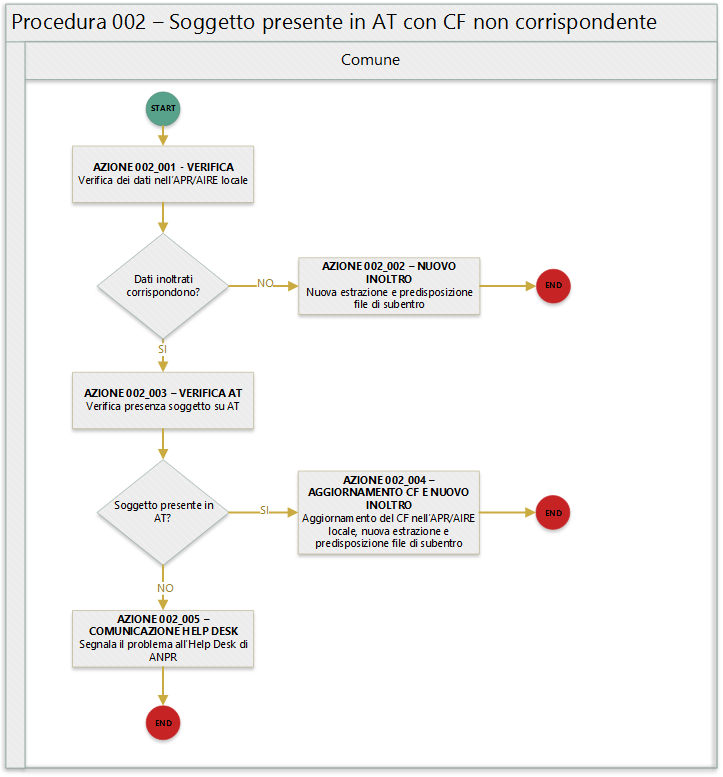
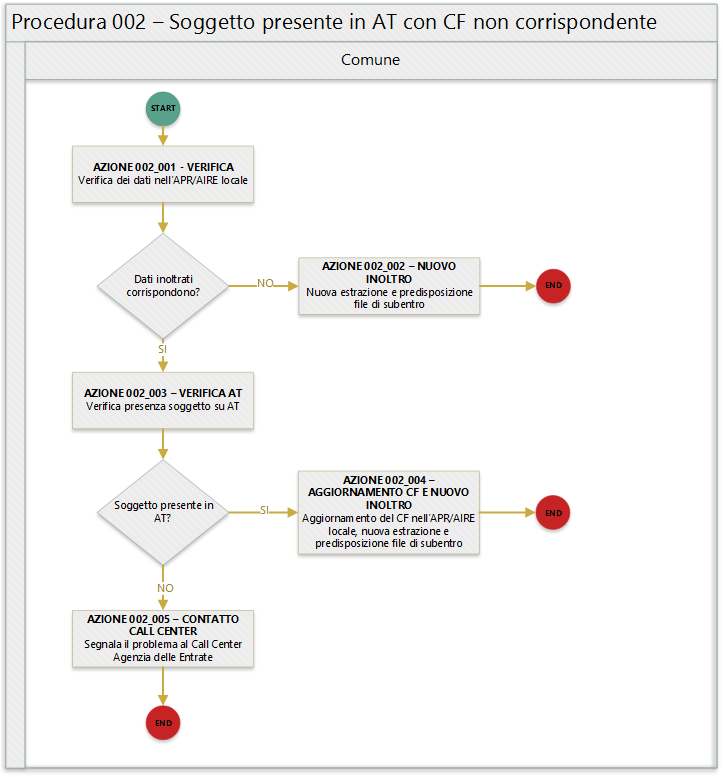
Aggiornati contenuti su nota GINA

Changed region(s): [[0.0913, 0.7722, 0.3347, 0.8649]]

diff --git a/procedure/PROCEDURA_001.md b/procedure/PROCEDURA_001.md
@@ -1,13 +1,19 @@
 	QUESTO DOCUMENTO É UNA BOZZA DI LAVORO
 
-# Procedura 001 - CF lunghezza errata o formalmente errato
+# Procedura 001 - Errore nel CF
 
 > ritorna [*README*](../README.md) o [*Tabella anomalie ANPR*](../TAB01_ANOMALIE_ANPR.md)
 
 In quanto segue si riporta la procedura suggerita ai Comuni per la gestione delle anomalie: 
 
-- EA001 - *codice fiscale* lunghezza errata; 
+- EA001 - *codice fiscale* lunghezza errata;
+- EA029 - *codice fiscale* calcolato dai *dati angrafici* del comune non presente in Anagrafe Tributaria; 
+- EA038 - soggetto con data di nascita non coincidente con quella presente nel *codice fiscale*;
+- EA042 - soggetto con sesso non coincidente con quella presente nel *codice fiscale*;
 - EA048 - *codice fiscale* formalmente errato.
+
+
+
 
 ## Precondizione
 Per dare seguito alla presente procedura è necessario che l'ufficiale d'anagrafe disponga:
@@ -24,25 +30,25 @@ La seguente figura sintetizza la procedura per la gestione delle anomalie.
 In quanto segue si riporta una descrizione delle azioni previsti per la presente procedura.
 
 ### AZIONE 001_001 - VERIFICA
-L'ufficiale d'anagrafe verifica i dati anagrafici associati al soggetto interessato dall'errore sul sistema gestionale del Comune (APR o AIRE locale) con l'obiettivo di constatare che i dati inoltrati al sistema ANPR coincidono con quelli registrati.
+L'ufficiale d'anagrafe verifica i dati anagrafici associati al soggetto interessato dall'errore sul sistema gestionale del Comune (APR o AIRE locale) con l'obiettivo di constatare che i dati inoltrati al sistema ANPR coincidono con quelli registrati. **Si evidenzia che l'ufficiale di anagrafe provvede anche al riscontro che i dati registrati nell'APR o AIRE locali corrispondano con i dati registrati allo stato civile**
 
 ### AZIONE 001_002 - NUOVO INOLTRO
 Poichè i dati inoltrati al sistema ANPR non coincidono con quelli presenti nel sistema gestionale del Comune (probabilemente per problemi nella procedura di estrazione e predisposizione dei file di subentro utilizzata) è necessario provvedere nuovamente all'estrazione dei dati e alla predisposizione dei file di subentro al fine di provvedere ad eseguire l'inoltro al sistema ANPR.
 
 ### AZIONE 001_003 - VERIFICA AT
-L'ufficiale di anagrafe, tramite il sistema *SIATEL v2.0 - PuntoFisco* reso disponibile dall'Agenzia delle entrate, ricerca il soggetto nell'Anagrafe Tributaria e verifica il CF ad esso assegnato.
+L'ufficiale di anagrafe, tramite il sistema *SIATEL v2.0 - PuntoFisco* reso disponibile dall'Agenzia delle entrate, ricerca il soggetto nell'Anagrafe Tributaria e verifica il CF ad esso assegnato. Nel dettaglio attraverso le informazioni anagrafiche in suo possesso nome, cognome, sesso, luogo e data di nascita verifica se sull'Anagrafe Tributaria risulta soggetto ed in caso positivo prende nota del codice fiscale attribuito ad esso.
 
 ### AZIONE 001_004 - AGGIORNAMENTO CF E NUOVO INOLTRO
 L'ufficiale di anagrafe, a valle del positivo riscontro con l'Agenzia delle entrate, provvede ad aggiornare il *codice fiscale* sul sistema gestionale del Comune per dare seguito ad una nuova estrazione dei dati e alla predisposizione dei file di subentro al fine di provvedere ad eseguire nuovamente l'inoltro al sistema ANPR.
 
 ### AZIONE 001_005 - CONVOCAZIONE CITTADINO
-L'ufficiale di anagrafe convoca il cittadino per verificare se lo stesso è in possesso di un *codice fiscale* correttamente generato dall'Agenzia delle entrate.
+L'ufficiale di anagrafe convoca il cittadino per verificare se lo stesso è in grado di attestare il *codice fiscale* ad esso attribuito dall'Agenzia delle entrate, ad esempio verificando la tessera sanitaria in suo possesso.
 
 ### AZIONE 001_006 - AGGIORNAMENTO CF E NUOVO INOLTRO
 L'ufficiale di anagrafe, a valle del positivo riscontro con il cittadino, provvede ad aggiornare il *codice fiscale* sul sistema gestionale del Comune per dare seguito ad una nuova estrazione dei dati e alla predisposizione dei file di subentro al fine di provvedere ad eseguire nuovamente l'inoltro al sistema ANPR.
 
 ### AZIONE 001_007 - CANCELLAZIONE CF E NUOVO INOLTRO
-L'ufficiale di anagrafe, non avendo la possibilità di riscontrate il *codice fiscale* provvede alla cancellazione dei dati sul sistema gestionale del Comune per dare seguito ad una nuova estrazione dei dati e alla predisposizione dei file di subentro al fine di provvedere ad eseguire nuovamente l'inoltro al sistema ANPR
+L'ufficiale di anagrafe, non avendo la possibilità di riscontrate il *codice fiscale* provvede alla cancellazione dei dati sul sistema gestionale del Comune per dare seguito ad una nuova estrazione dei dati e alla predisposizione dei file di subentro al fine di provvedere ad eseguire nuovamente l'inoltro al sistema ANPR.
 
 ## Riferimenti di interesse
 Nello specifico della presente procedure risultano di interesse:

diff --git a/TAB01_ANOMALIE_ANPR.md b/TAB01_ANOMALIE_ANPR.md
@@ -7,18 +7,18 @@
 
 |codice anomalia | messaggio di errore | severità | procedura suggerita|
 | ------------- | ------------- | ------------- | ------------- |
-|	EA001	|	Codice fiscale di lunghezza errata | warning da rimuovere prima del subentro | [Procedura 001 - Codice Fiscale lunghezza errata o formalmente errato](procedure/PROCEDURA_001.md) |
+|	EA001	|	Codice fiscale di lunghezza errata | warning da rimuovere prima del subentro | [Procedura 001 - Errore nel CF](procedure/PROCEDURA_001.md) |
 |	EA002	|	Soggetto presente in AT con  DA uguali a quelli del comune ma CF del comune assente	| warning non bloccante | [Procedura 002 - Soggetto presente in AT con CF non corrispondente](procedure/PROCEDURA_002.md) |
 |	EA003	|	Soggetto presente in AT con  DA uguali a quelli del comune ma CF diverso	| warning non bloccante | [Procedura 002 - Soggetto presente in AT con CF non corrispondente](procedure/PROCEDURA_002.md) |
-|	EA029	|	Codice fiscale calcolato dai  DA del comune non presente in AT	| warning non bloccante | [Procedura 003 - CF calcolato dai dati anagrafici non presente in AT](procedure/PROCEDURA_003.md) |
+|	EA029	|	Codice fiscale calcolato dai  DA del comune non presente in AT	| warning non bloccante | [Procedura 001 - Errore nel CF](procedure/PROCEDURA_001.md) |
 |	EA030	|	CF di un soggetto residente  in piu' comuni	| warning non bloccante | [Procedura 005 - Duplicazione scheda anagrafica](procedure/PROCEDURA_005.md) |
 |	EA031	|	CF di un soggetto residente  sia in Italia che all'estero (AIRE)	| warning da rimuovere prima del subentro | [Procedura 005 - Duplicazione scheda anagrafica](procedure/PROCEDURA_005.md) |
 |	EA036	|	Soggetto registrato piu' volte sia con il CF base che con quello che risolve l'omocodia  	| warning non bloccante | [Procedura 005 - Duplicazione scheda anagrafica](procedure/PROCEDURA_005.md) |
-|	EA038	|	Soggetto con data di nascita non coincidente  con quella presente nel CF	| warning da rimuovere prima del subentro | [Procedura 004 - CF presente con errore nella data di nascita o sesso](procedure/PROCEDURA_004.md)  |
+|	EA038	|	Soggetto con data di nascita non coincidente  con quella presente nel CF	| warning da rimuovere prima del subentro | [[Procedura 001 - Errore nel CF](procedure/PROCEDURA_001.md) |
 |	EA040	|	Soggetto registrato piu' volte  sia con il CF collegato che con l'ultimo	| warning non bloccante | [Procedura 005 - Duplicazione scheda anagrafica](procedure/PROCEDURA_005.md) |
-|	EA042	|	Soggetto con sesso non coincidente  con quello presente nel CF	| warning da rimuovere prima del subentro | [Procedura 004 - CF presente con errore nella data di nascita o sesso](procedure/PROCEDURA_004.md) |
+|	EA042	|	Soggetto con sesso non coincidente  con quello presente nel CF	| warning da rimuovere prima del subentro | [Procedura 001 - Errore nel CF](procedure/PROCEDURA_001.md) |
 |	EA047	|	Soggetto presente  nell'archivio AIRE e nel MAE dei cittadini non residenti (IRREPERIBILI, RIMPATRIATI, DECEDUTI,  TRASFERITI)	| warning non bloccante | NON APPLICATA: in attesa di collegamento con MAE |
-|	EA048	|	Codice fiscale formalmente errato	| warning da rimuovere prima del subentro | [Procedura 001 - Codice Fiscale lunghezza errata o formalmente errato](procedure/PROCEDURA_001.md) |
+|	EA048	|	Codice fiscale formalmente errato	| warning da rimuovere prima del subentro | [Procedura 001 - Errore nel CF](procedure/PROCEDURA_001.md) |
 |	EC001	|	Codice stato civile [@] inesistente sulla tabella di riferimento [Codice-Tabella]	| warning da rimuovere prima del subentro | [Procedura 006 - Codice inesistente su tabella di riferimento](procedure/PROCEDURA_006.md) |
 |	EC002	|	Codice relazione di parentela [@] inesistente sulla tabella di riferimento [Codice-Tabella]	| warning da rimuovere prima del subentro | [Procedura 006 - Codice inesistente su tabella di riferimento](procedure/PROCEDURA_006.md) |
 |	EC003	|	Codice legame scheda convivenza [@] inesistente sulla tabella di riferimento [Codice-Tabella]	| warning da rimuovere prima del subentro | [Procedura 006 - Codice inesistente su tabella di riferimento](procedure/PROCEDURA_006.md) |

diff --git a/procedure/PROCEDURA_002.md b/procedure/PROCEDURA_002.md
@@ -24,19 +24,19 @@ La seguente figura sintetizza la procedura per la gestione delle anomalie.
 In quanto segue si riporta una descrizione delle azioni previsti per la presente procedura.
 
 ### AZIONE 002_001 - VERIFICA
-L'ufficiale d'anagrafe verifica i dati anagrafici associati al soggetto interessato dall'errore sul sistema gestionale del Comune (APR o AIRE locale) con l'obiettivo di constatare che i dati inoltrati al sistema ANPR coincidono con quelli registrati.
+L'ufficiale d'anagrafe verifica i dati anagrafici associati al soggetto interessato dall'errore sul sistema gestionale del Comune (APR o AIRE locale) con l'obiettivo di constatare che i dati inoltrati al sistema ANPR coincidono con quelli registrati. **Si evidenzia che l'ufficiale di anagrafe provvede anche al riscontro che i dati registrati nell'APR o AIRE locali corrispondano con i dati registrati allo stato civile**
 
 ### AZIONE 002_002 - NUOVO INOLTRO
 Poichè i dati inoltrati al sistema ANPR non coincidono con quelli presenti nel sistema gestionale del Comune (probabilemente per problemi nella procedura di estrazione e predisposizione dei file di subentro utilizzata) è necessario provvedere nuovamente all'estrazione dei dati e alla predisposizione dei file di subentro al fine di provvedere ad eseguire l'inoltro al sistema ANPR.
 
 ### AZIONE 002_003 - VERIFICA AT
-L'ufficiale di anagrafe, tramite il sistema *SIATEL v2.0 - PuntoFisco* reso disponibile dall'Agenzia delle entrate, ricerca il soggetto nell'Anagrafe Tributaria e verifica il CF ad esso assegnato.
+L'ufficiale di anagrafe, tramite il sistema *SIATEL v2.0 - PuntoFisco* reso disponibile dall'Agenzia delle entrate, ricerca il soggetto nell'Anagrafe Tributaria e verifica il CF ad esso assegnato. Nel dettaglio attraverso le informazioni anagrafiche in suo possesso nome, cognome, sesso, luogo e data di nascita verifica se sull'Anagrafe Tributaria risulta soggetto ed in caso positivo prende nota del codice fiscale attribuito ad esso. 
 
 ### AZIONE 002_004 - AGGIORNAMENTO CF E NUOVO INOLTRO
 L'ufficiale di anagrafe, a valle del positivo riscontro con l'Anagrafe Tributaria, provvede ad aggiornare il *codice fiscale* sul sistema gestionale del Comune per dare seguito ad una nuova estrazione dei dati e alla predisposizione dei file di subentro al fine di provvedere ad eseguire nuovamente l'inoltro al sistema ANPR.
 
-### AZIONE 002_005 - COMUNIZAZIONE HELP DESK
-Nel caso in in cui l'ufficiale di anagrafe non riesca ad effettuare il riscontro del CF del soggetto tramite il sistema *SIATEL v2.0 - PuntoFisco* reso disponibile dall'Agenzia delle entrate, contatta l'Help Desk di ANPR per segnalare l'anomalia in quanto l'errore segnalato risulta non corrispondente al riscontro effettuato.
+### AZIONE 002_005 - CONTATTA CALL CENTER
+Nel caso in in cui l'ufficiale di anagrafe non riesca ad effettuare il riscontro del CF del soggetto tramite il sistema *SIATEL v2.0 - PuntoFisco* reso disponibile dall'Agenzia delle entrate, contatta il Call Center dell'Agenzia delle Entrate per segnalare l'anomalia.
 
 ## Riferimenti di interesse
 Nello specifico della presente procedure risultano di interesse:

diff --git a/procedure/PROCEDURA_006.md b/procedure/PROCEDURA_006.md
@@ -82,5 +82,11 @@ L'ufficiale di anagrafe identifica la corretta codifica del valore presente nell
 ### AZIONE 006_004 - AGGIORNAMENTO E NUOVO INOLTRO
 L'ufficiale di anagrafe, sulla base dell'identificazione effettuata, provvede ad aggironare la *schede soggetto* e/o *schede famiglia*  sul sistema gestionale del Comune o ad assicurare la corretta transcodifica nella procedura di estrazione e predisposizione dei file di subentro, per dare seguito ad una nuova estrazione dei dati e alla predisposizione dei file di subentro al fine di provvedere ad eseguire l'inoltro al sistema ANPR.
 
+## Riferimenti di interesse
+Nello specifico della presente procedure risultano di interesse:
+
+- [note all'utilizzo](https://docs.google.com/document/d/1QS2-HVwEKXC_vxL3qSrA2eePSDc_qR9TZbhBlKwtw80/edit) della tabella storico Comuni
+- [note all'utilizzo](https://docs.google.com/document/d/1O8XAUMyRRq-YMcjzcuZlvQpQEl5wiq78rdHTRtBzZIs/edit) della tabella storico Stati Esteri
+
 
 > ritorna [*README*](../README.md) o [*Tabella anomalie ANPR*](../TAB01_ANOMALIE_ANPR.md)
